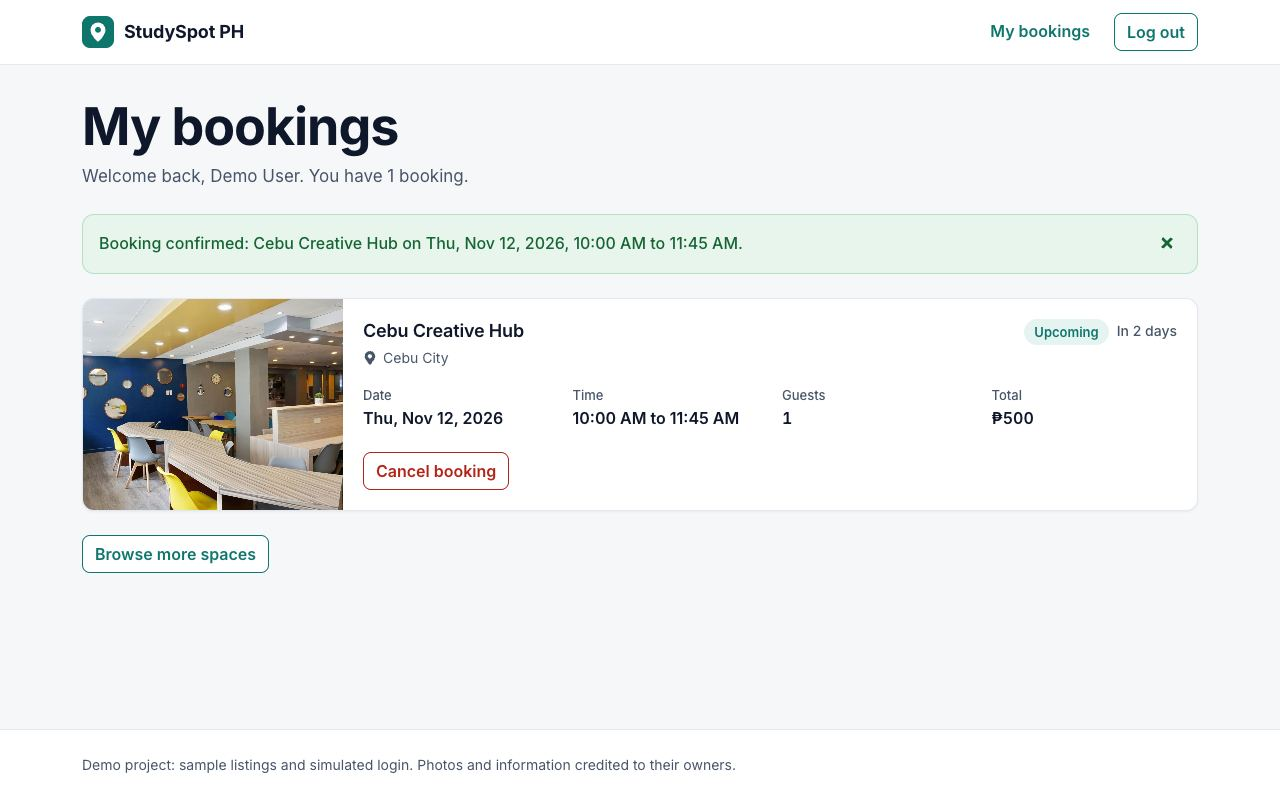
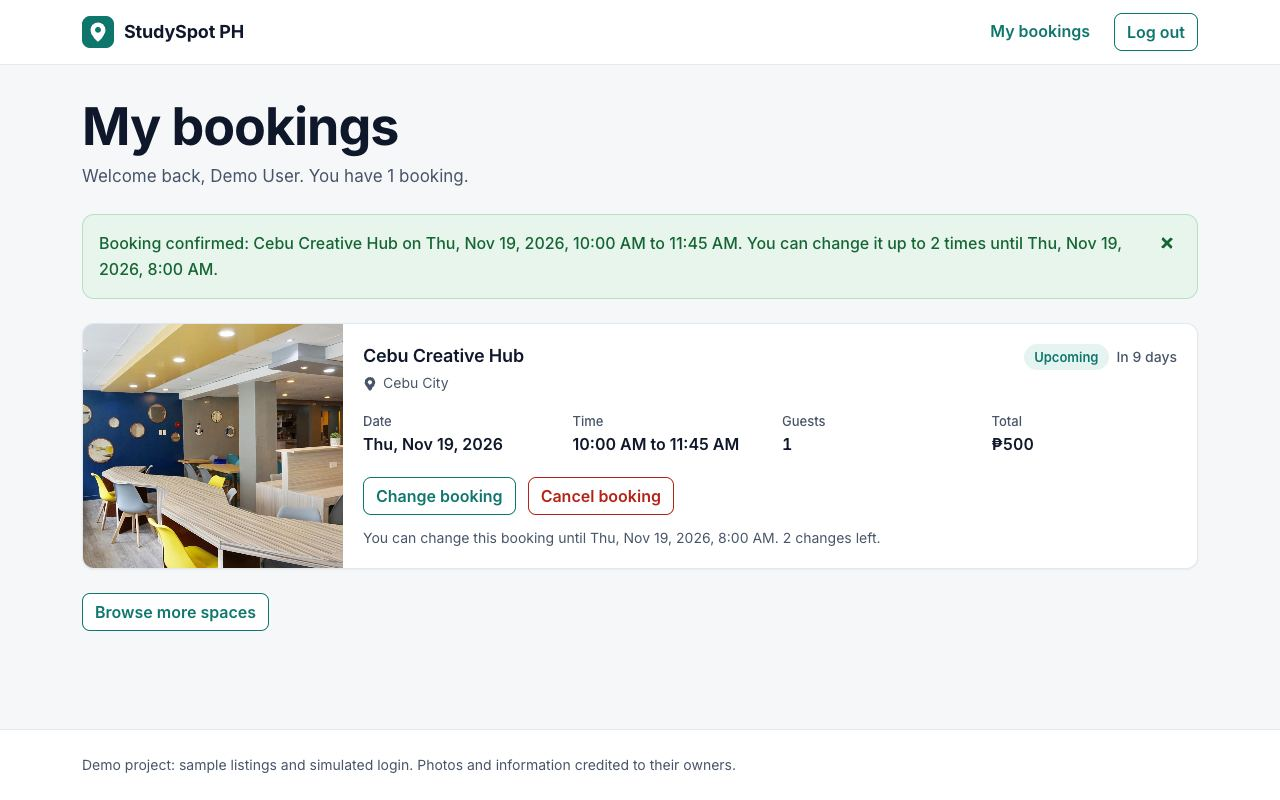
docs: update README for changing bookings
Add the change feature to Features and Booking rules, list the new rules files, and say plainly under Known limitations that the change rules are demo rules that run in the browser and could be bypassed by editing saved data or the clock. Update the test count and the checks that were run, record the owner's phone, Safari and screen reader test, and replace the reschedule item in Future improvements. Retake the dashboard screenshot (it now shows the change button and note) and add a screenshot of the change page.

diff --git a/README.md b/README.md
@@ -10,7 +10,11 @@ Log in with any name and email to try booking. The login is simulated and all da
 
 | Home | Space details and booking form | My bookings |
 |---|---|---|
-| ![Home page with the hero, the stats and the start of the spaces list](docs/screenshots/home.jpg) | ![Space page with the booking form and a price summary of 1h 45m billed as 2 hours](docs/screenshots/space-detail.jpg) | ![My bookings page with a booking confirmation and one upcoming booking](docs/screenshots/dashboard.jpg) |
+| ![Home page with the hero, the stats and the start of the spaces list](docs/screenshots/home.jpg) | ![Space page with the booking form and a price summary of 1h 45m billed as 2 hours](docs/screenshots/space-detail.jpg) | ![My bookings page with a booking confirmation that gives the change deadline, and one upcoming booking with Change booking and Cancel booking buttons](docs/screenshots/dashboard.jpg) |
+
+Changing a booking:
+
+![Change booking page moving a booking to another space, with the deadline note, quick time slots and the new price](docs/screenshots/change-booking.jpg)
 
 On a phone (390px wide):
 
@@ -26,7 +30,9 @@ On a phone (390px wide):
 - Form validation (React Hook Form + Yup), with the messages shown next to each field
 - Overlap and zero-length checks, so the same space cannot be double-booked
 - One booking per space per user
-- My bookings page with upcoming and completed bookings and a confirmation message after booking
+- My bookings page with upcoming and completed bookings, and one message for the latest action (booked, changed or cancelled)
+- Change a booking (space, date, times and guests) on its own page, up to 2 times and before a deadline, with the new price and the difference shown
+- The change deadline is shown before booking, in the booking confirmation, and on each booking with a countdown that updates every 30 seconds
 - Cancel a booking from a confirmation dialog
 - Protected My bookings page; logging in brings you back to the page you came from
 - Bookings kept in the browser's `localStorage`
@@ -43,27 +49,28 @@ On a phone (390px wide):
 | Styling | Bootstrap 5.3 (CSS only, no Bootstrap JavaScript), customised with design tokens in [`src/styles/theme.css`](src/styles/theme.css); react-icons; small per-component CSS files |
 | Font | Inter, self-hosted with [`@fontsource-variable/inter`](https://fontsource.org/fonts/inter) (SIL Open Font License 1.1) |
 | State | Context API (`AuthContext`, `BookingContext`) + a `useLocalStorage` hook |
-| Tests | Vitest: 31 unit tests in 4 files (booking rules, date and time formatting, quick time slots, home page stats, time validation) |
+| Tests | Vitest: 97 unit tests in 8 files (booking rules, change deadlines, notices, opening hours, date and time formatting, quick time slots, home page stats, time validation) |
 | Hosting | Vercel |
 
 ## Booking rules
 
-The rules live as plain functions in [`src/utils/bookingTime.js`](src/utils/bookingTime.js), and the quick time slots are read by [`src/utils/timeSlots.js`](src/utils/timeSlots.js). Unit tests sit next to both.
+The rules live as plain functions in [`src/utils/bookingRules.js`](src/utils/bookingRules.js) (the checks shared by the booking and change forms), [`src/utils/bookingTime.js`](src/utils/bookingTime.js) (times, prices and overlap) and [`src/utils/bookingChanges.js`](src/utils/bookingChanges.js) (the change deadline). The quick time slots are read by [`src/utils/timeSlots.js`](src/utils/timeSlots.js). Unit tests sit next to each file.
 
 - **Billing:** every started hour is billed. 1h 45m is billed as 2 hours. Total = billed hours × hourly rate × guests.
 - **Start and end:** the start time and end time must be different.
 - **Overlap:** a new booking is rejected if it overlaps any confirmed booking for the same space, by any user, on any date. Back-to-back bookings are allowed (one ends at 13:00, the next starts at 13:00).
 - **Overnight:** an end time earlier than the start time means the booking runs into the next day. This is only allowed for spaces open 24/7, and overnight bookings are included in the overlap check.
 - **Passes:** pass-style slots are billed the same way (hourly rate × hours × guests), so Full Day (24 hours) at ₱500/hour is ₱12,000 per guest.
+- **Changing a booking:** an upcoming booking can be changed (space, date, times and guests) up to 2 times, until 2 hours before it starts, or for 30 minutes after it was booked if that gives more time, and never after it starts. The new details go through the same checks as a new booking; a booking never overlaps with itself, and you cannot move it to a space where you already have another booking. Saving without any change does not use up a change. Cancelling has no deadline.
 
 ## Design and accessibility
 
 What was checked (November 2026), and how:
 
-- **Widths:** every page and state (home logged out and in, space page logged out, with the form and with an existing booking, login with errors, My bookings empty, with bookings, with the confirmation message and with the cancel dialog open, and the 404 page) at 320, 390, 768, 1024 and 1440px wide, plus 200% zoom on a 1280px window. No sideways scrolling; screenshots of each were reviewed.
+- **Widths:** every page and state (home logged out and in, space page logged out, with the form and with an existing booking, login with errors, My bookings empty, with bookings, with each kind of message and with the cancel dialog open, the change page in its normal, warning and "can't be changed" states, and the 404 page) at 320, 390, 768, 1024 and 1440px wide, plus 200% zoom on a 1280px window. No sideways scrolling; screenshots of each were reviewed.
 - **Touch targets:** buttons, links in the header and form fields are at least 44px tall below 768px.
-- **Keyboard:** a keyboard-only run at 390px and 1440px: skip link, menu, log in, search, open a space, pick a quick slot, enter the date, book with Enter, cancel a booking in the dialog, log out. Every focused element shows a visible focus ring.
-- **Automated scan:** [axe-core](https://github.com/dequelabs/axe-core) 4.14 (WCAG 2.0/2.1 A and AA rules plus best practices) on each of the states above reported no violations. An automated scan cannot find every problem; it does not replace testing with a screen reader, which has not been done.
+- **Keyboard:** keyboard-only runs at 390px and 1440px: skip link, menu, log in, search, open a space, pick a quick slot, enter the date, book with Enter, change the booking twice (including the space), reach the disabled Change booking button (its reason is linked with `aria-describedby`, and pressing it does nothing), cancel a booking in the dialog, log out. Every focused element shows a visible focus ring. When a booking can no longer be changed, its Change booking button stays reachable with `aria-disabled` and a linked reason instead of disappearing.
+- **Automated scan:** [axe-core](https://github.com/dequelabs/axe-core) 4.14 (WCAG 2.0/2.1 A and AA rules plus best practices) on each of the states above reported no violations. An automated scan cannot find every problem. The site was also tried on a real phone, in Safari and with a screen reader (November 2026, before the change feature was added).
 - **Colour contrast** of the design tokens (computed with the WCAG formula):
 
   | Pair | Ratio |
@@ -99,12 +106,13 @@ The app is deployed on Vercel as a static site. [`vercel.json`](vercel.json) rew
 - Data lives only in the browser's `localStorage`, so bookings are not shared between devices or users.
 - The listings and photos are sample data.
 - There is no backend.
+- The change rules (2 changes, the 2-hour cutoff and the 30-minute grace period) are demo rules and live in [`src/utils/bookingChanges.js`](src/utils/bookingChanges.js). All data and the time checks live in the browser, so someone who edits the saved data or the computer's clock can get around them. A real service would check the time on a server.
 - Light theme only.
 
 ## Future improvements
 
-- Reschedule a booking (the missing "Update" in CRUD)
-- A real backend and authentication
+- A real backend and authentication, which would also check the change deadline on a server
+- A cancellation deadline and email reminders
 - More tests, including component tests
 - Smaller image versions for phones
 
